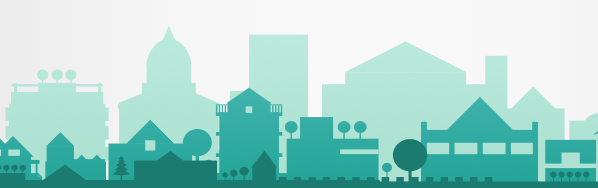
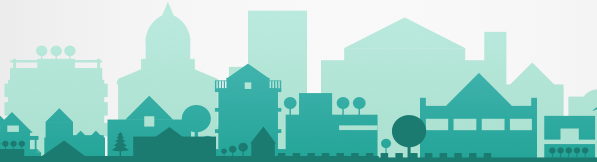
Currently working

diff --git a/app/assets/stylesheets/application.css b/app/assets/stylesheets/application.css
@@ -73,7 +73,7 @@ body {
 .trailleadpic {
   width: 100%;
   background-color: #B1E6D9;
-  margin: 1% 1% 1% 1%;
+  margin: -1% -1% -1% -1%;
   padding: 0 0 0 0;
 }
 
@@ -156,7 +156,6 @@ and (max-device-width : 667px) {
     margin-left: 55%;
   }
 
-
   .headline {
     margin-top: -25%;
     margin-left: 3%;
@@ -173,6 +172,8 @@ and (max-device-width : 667px) {
     padding: 0 0 0 0;
     margin: 0 0 0 0;
   }
+
+
   footer{
     height: 10%;
     width: 100%;

diff --git a/app/assets/stylesheets/itineraries.scss b/app/assets/stylesheets/itineraries.scss
@@ -65,4 +65,8 @@ and (max-device-width : 667px) {
     margin-top: 0;
     padding-top: 0;
   }
+
+  .thumbnails {
+    width:70px;
+  }
 }

diff --git a/app/views/uploaders/picture_uploader.rb b/app/views/uploaders/picture_uploader.rb
@@ -1,0 +1,56 @@
+# encoding: utf-8
+
+class PictureUploader < CarrierWave::Uploader::Base
+  include CarrierWave::MiniMagick
+  # Include RMagick or MiniMagick support:
+  # include CarrierWave::RMagick
+  # include CarrierWave::MiniMagick
+
+  # Choose what kind of storage to use for this uploader:
+  # storage :file
+  storage :fog
+
+  process resize_to_fit: [800, 800]
+  version :thumb do
+    process resize_to_fill: [150,150]
+  end
+
+  # Override the directory where uploaded files will be stored.
+  # This is a sensible default for uploaders that are meant to be mounted:
+  def store_dir
+    "uploads/#{model.class.to_s.underscore}/#{mounted_as}/#{model.id}"
+  end
+
+  # Provide a default URL as a default if there hasn't been a file uploaded:
+  # def default_url
+  #   # For Rails 3.1+ asset pipeline compatibility:
+  #   # ActionController::Base.helpers.asset_path("fallback/" + [version_name, "default.png"].compact.join('_'))
+  #
+  #   "/images/fallback/" + [version_name, "default.png"].compact.join('_')
+  # end
+
+  # Process files as they are uploaded:
+  # process :scale => [200, 300]
+  #
+  # def scale(width, height)
+  #   # do something
+  # end
+
+  # Create different versions of your uploaded files:
+  # version :thumb do
+  #   process :resize_to_fit => [50, 50]
+  # end
+
+  # Add a white list of extensions which are allowed to be uploaded.
+  # For images you might use something like this:
+  # def extension_white_list
+  #   %w(jpg jpeg gif png)
+  # end
+
+  # Override the filename of the uploaded files:
+  # Avoid using model.id or version_name here, see uploader/store.rb for details.
+  # def filename
+  #   "something.jpg" if original_filename
+  # end
+
+end

diff --git a/app/views/uploaders/logo_uploader.rb b/app/views/uploaders/logo_uploader.rb
@@ -1,0 +1,51 @@
+# encoding: utf-8
+
+class LogoUploader < CarrierWave::Uploader::Base
+
+  # Include RMagick or MiniMagick support:
+  # include CarrierWave::RMagick
+  # include CarrierWave::MiniMagick
+
+  # Choose what kind of storage to use for this uploader:
+  storage :file
+  # storage :fog
+
+  # Override the directory where uploaded files will be stored.
+  # This is a sensible default for uploaders that are meant to be mounted:
+  def store_dir
+    "uploads/#{model.class.to_s.underscore}/#{mounted_as}/#{model.id}"
+  end
+
+  # Provide a default URL as a default if there hasn't been a file uploaded:
+  # def default_url
+  #   # For Rails 3.1+ asset pipeline compatibility:
+  #   # ActionController::Base.helpers.asset_path("fallback/" + [version_name, "default.png"].compact.join('_'))
+  #
+  #   "/images/fallback/" + [version_name, "default.png"].compact.join('_')
+  # end
+
+  # Process files as they are uploaded:
+  # process :scale => [200, 300]
+  #
+  # def scale(width, height)
+  #   # do something
+  # end
+
+  # Create different versions of your uploaded files:
+  # version :thumb do
+  #   process :resize_to_fit => [50, 50]
+  # end
+
+  # Add a white list of extensions which are allowed to be uploaded.
+  # For images you might use something like this:
+  # def extension_white_list
+  #   %w(jpg jpeg gif png)
+  # end
+
+  # Override the filename of the uploaded files:
+  # Avoid using model.id or version_name here, see uploader/store.rb for details.
+  # def filename
+  #   "something.jpg" if original_filename
+  # end
+
+end

diff --git a/app/models/itinerary.rb b/app/models/itinerary.rb
@@ -3,7 +3,7 @@ class Itinerary < ActiveRecord::Base
   has_many :photos
 
   validates :title, presence: true, length: {maximum:50}
-  
-  mount_uploader :logo, LogoUploader
+
+  # mount_uploader :logo, LogoUploader
   #load the logo for buisness/organization
 end

diff --git a/app/models/photo.rb b/app/models/photo.rb
@@ -2,5 +2,5 @@ class Photo < ActiveRecord::Base
   belongs_to :user
 
   mount_uploader :picture, PictureUploader
-  validates :poi_id, uniqueness: true, allow_nil: true
+  # validates :poi_id, uniqueness: true, allow_nil: true
 end
